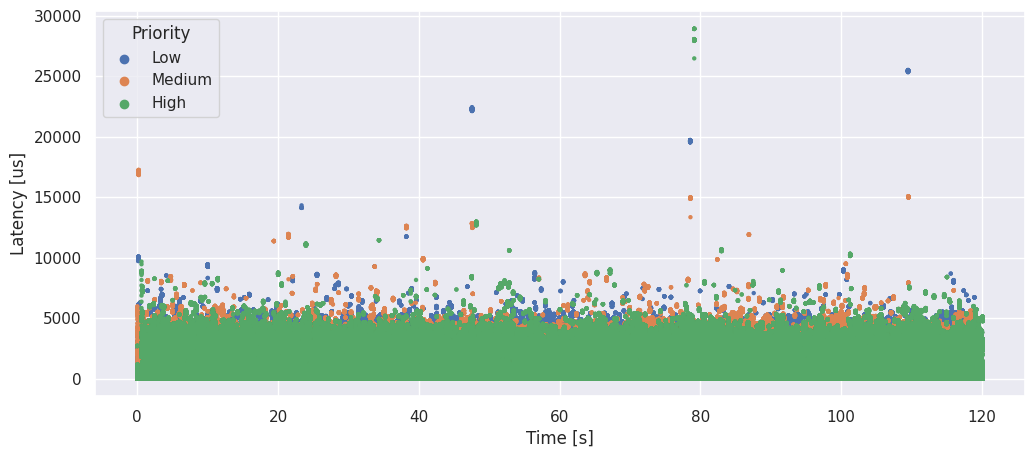
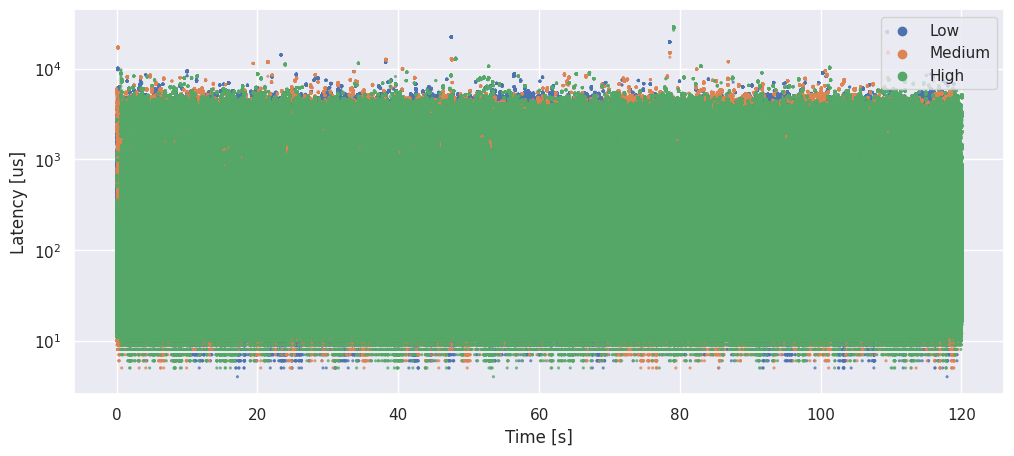
log plots, multiprocess plotting

diff --git a/benchmarks/baseline/raw.py b/benchmarks/baseline/raw.py
@@ -3,13 +3,15 @@ import time
 
 file_prefix = "baseline_raw"
 
+
 def measure():
     """One pifus writer, one lwIP reader."""
     framework.start_stack(affinity="0-2")
 
     lwip_reader_path = framework.get_binary_path(
         "lwip/custom/benchmark/reader/reader")
-    framework.start_process(lwip_reader_path, args="192.168.1.201", tapif=1, affinity="4")
+    framework.start_process(
+        lwip_reader_path, args="192.168.1.201", tapif=1, affinity="4")
 
     # make sure readers are up
     time.sleep(1)
@@ -25,13 +27,15 @@ def measure():
     time.sleep(2)
 
     # lwIP
-    framework.start_process(lwip_reader_path, args="192.168.1.201", tapif=1, affinity="0")
+    framework.start_process(
+        lwip_reader_path, args="192.168.1.201", tapif=1, affinity="0")
     # make sure readers are up
     time.sleep(1)
 
     lwip_writer_path = framework.get_binary_path(
         "lwip/custom/benchmark/writer/writer")
-    framework.start_process(lwip_writer_path, args=f"-o {file_prefix}_lwip", tapif=0, affinity="2")
+    framework.start_process(
+        lwip_writer_path, args=f"-o {file_prefix}_lwip", tapif=0, affinity="2")
 
     framework.wait()
     framework.kill_all_processes()
@@ -45,6 +49,6 @@ def draw_plots():
 
     data = pifus_data + lwip_data
 
-    plot.latency_scatter(data, output=f"{file_prefix}.png",
-                         legend_title="API", xlabel="Time [s]", ylabel="Latency [ms]")
+    plot.latency_scatter(data, output=f"{file_prefix}.png", legend_title="API", xlabel="Time [s]",
+                         ylabel="Latency [us]", latency_unit="us", latency_scale="log")
     plot.latency_dataframe_stats(data, output=f"{file_prefix}.txt")

diff --git a/benchmarks/suite.py b/benchmarks/suite.py
@@ -1,4 +1,7 @@
 from email.mime import base
+from multiprocessing import Process
+from typing import List
+
 import priorities.competing
 import dummy_stack.multiple_async
 import dummy_stack.multiple_sync
@@ -6,23 +9,31 @@ import dummy_stack.single
 import dummy_stack.sockets_async
 import baseline.raw
 
-if __name__ == "__main__":
+
+def measure():
     baseline.raw.measure()
-    baseline.raw.draw_plots()
-
-    # bad benchmark...
-   # dummy_stack.sockets_async.measure()
-    #dummy_stack.sockets_async.draw_plots()
-
     dummy_stack.multiple_async.measure()
-    dummy_stack.multiple_async.draw_plots()
-
     dummy_stack.multiple_sync.measure()
-    dummy_stack.multiple_sync.draw_plots()
-
     dummy_stack.single.measure()
-    dummy_stack.single.draw_plots()
-
     priorities.competing.measure()
-    priorities.competing.draw_plots()
+
+
+def plot():
+    modules = [baseline.raw, dummy_stack.multiple_sync, dummy_stack.multiple_async,
+               dummy_stack.single, priorities.competing]
+    processes: List[Process] = []
+    for module in modules:
+        process = Process(target=module.draw_plots, args=())
+        processes.append(process)
+
+        process.start()
+
+    for process in processes:
+        process.join()
+
+
+if __name__ == "__main__":
+    measure()
+    plot()
+
     exit(0)

diff --git a/benchmarks/framework/plot.py b/benchmarks/framework/plot.py
@@ -27,7 +27,8 @@ def latency_dataframe(data: List[LatencyTimeTuple]) -> pd.DataFrame:
 
 
 def latency_scatter(data: List[LatencyTimeTuple], output: str, legend_title: Optional[str] = None,
-                    xlabel: Optional[str] = None, ylabel: Optional[str] = None, latency_unit: Optional[str] = "ms"):
+                    xlabel: Optional[str] = None, ylabel: Optional[str] = None, latency_unit: str = "ms",
+                    latency_scale: str = "linear"):
     df = latency_dataframe(data)
 
     plt.figure(figsize=(12, 5))
@@ -40,11 +41,16 @@ def latency_scatter(data: List[LatencyTimeTuple], output: str, legend_title: Opt
     df['time'] = df['time'].div(1000000).round(2)
 
     ax = sns.scatterplot(data=df, x="time", y="latency", hue="type",
-                         legend='full', s=10, edgecolor="none")
+                         legend='full', s=5, edgecolor="none", alpha=0.8)
     ax.set_xlabel(xlabel)
     ax.set_ylabel(ylabel)
 
+    if latency_scale == "log":
+        ax.set(yscale="log")
+
     set_legend(ax, legend_title)
+    plt.legend(loc='upper right')
+
     plt.savefig(plotify_path(output), bbox_inches='tight')
 
 

diff --git a/benchmarks/dummy_stack/single.py b/benchmarks/dummy_stack/single.py
@@ -21,5 +21,5 @@ def draw_plots():
         f"{file_prefix}_tx.txt", f"{file_prefix}_txed.txt", "High")
 
     plot.latency_scatter(data, output=f"{file_prefix}.png", legend_title="",
-                         xlabel="Time [s]", ylabel="Latency [us]", latency_unit="us")
+                         xlabel="Time [s]", ylabel="Latency [us]", latency_unit="us", latency_scale="log")
     plot.latency_dataframe_stats(data, output=f"{file_prefix}.txt")

diff --git a/benchmarks/dummy_stack/multiple_async.py b/benchmarks/dummy_stack/multiple_async.py
@@ -31,5 +31,5 @@ def draw_plots():
     data = low_data + medium_data + high_data
     
     plot.latency_scatter(data, output=f"{file_prefix}.png", legend_title="Priority",
-                         xlabel="Time [s]", ylabel="Latency [us]", latency_unit="us")
+                         xlabel="Time [s]", ylabel="Latency [us]", latency_unit="us", latency_scale="log")
     plot.latency_dataframe_stats(data, output=f"{file_prefix}.txt")

diff --git a/benchmarks/dummy_stack/multiple_sync.py b/benchmarks/dummy_stack/multiple_sync.py
@@ -31,5 +31,5 @@ def draw_plots():
     data = low_data + medium_data + high_data
 
     plot.latency_scatter(data, output=f"{file_prefix}.png", legend_title="Priority",
-                         xlabel="Time [s]", ylabel="Latency [us]", latency_unit="us")
+                         xlabel="Time [s]", ylabel="Latency [us]", latency_unit="us", latency_scale="log")
     plot.latency_dataframe_stats(data, output=f"{file_prefix}.txt")
